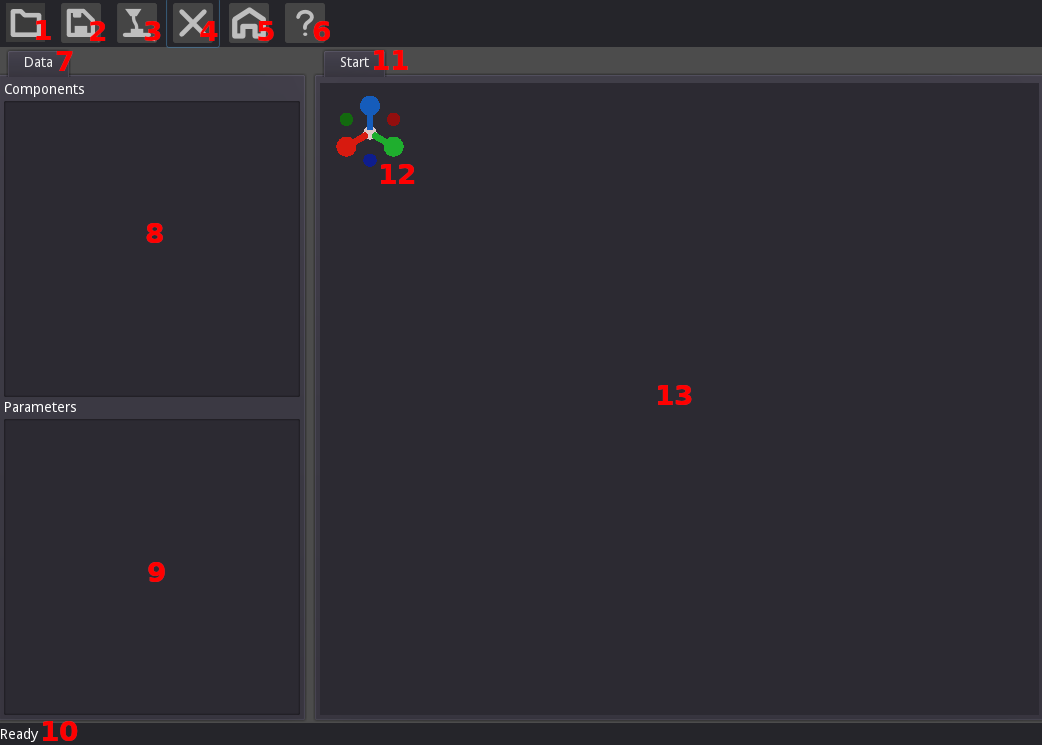
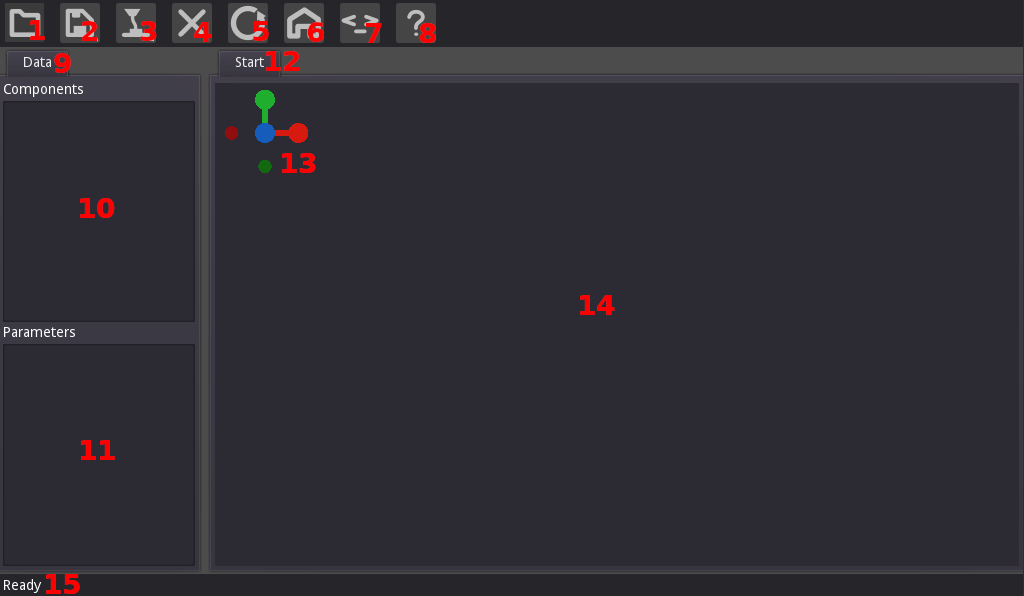
Updated docs other than the tutorial

diff --git a/docs/usage.md b/docs/usage.md
@@ -10,17 +10,19 @@ Below is a diagram showing the main sections of the user interface.
 
 1. _Open Button_ - Allows a user to open a Semblage component file, which is just a carefully structured CadQuery script. Semblage files are structured in a way that preserves the history, which is the order that operations were added in. Opening a non-Semblage CadQuery file may still work, but is not officially supported at this time, and no history will be loaded. It should be understood that Semblage is not a CadQuery IDE. There are other editors like [CQ-editor](https://github.com/CadQuery/CQ-editor) that can fill that role better than Semblage.
 2. _Save Button_ - Any button with a triangle in the bottom-right corner will open a submenu. The Save button gives two options: _Save_ and _Save As_. If a component has not been saved yet, clicking the _Save_ item will trigger a _Save As_, which allows the path and file name to be set for the component. After the file name has been set, clicking _Save_ will simply save the component to the existing file. The _Ctrl+S_ hotkey combination will trigger a save as well.
-3. _Export Button_ - Also referred to as the "Make Button", the icon for this button is a 3D printer hotend which is extruding plastic. Clicking this button will display a submenu with a listing of each format that the component can be exported to. Clicking on one of the items will open the export dialog for that format.
-4. _Close Button_ - Clicking this button closes the current component and clears the UI so that work on a new component can be started.
-5. _Home Button_ - Clicking this button with a component loaded into the 3D view will return the camera view to a standard "home" position. This gives a safe spot to come back to when rotating, panning, and zooming an object.
-6. _Information Button_ - This button opens an About dialog that contains acknowledgements, documentation links, and version information.
-7. Data - Sidebar that contains the list of _Components_ with the operation _History_ of the associated component, and any _Parameters_ that are associated with the current component. Parameters are global and are not scoped to any single component within the enclosing component script.
-8. _Components_ - List of current components. Each component will contain all of the operations that have been added to it as children in the tree. Multiple components can be added and used in combination to perform operations such as sweep. Right clicking on a component gives a menu that allows a user to _Add_, _Edit_, _Remove_ or _Show/Hide_ the component. Right clicking on an operation item shows a menu that allows a user to _Add_, _Edit_ and _Remove_ the operation, and there is also an item (_Insert Above_) that will allow an operation to be inserted above the operation that was right clicked on. Operation items can also be dragged and dropped onto one another to reorder the operations.
-9. _Parameters_ - Parameters are what make a model "parametric", and this control holds any parameters that are defined for the current component. These parameters are global to the component script, and are not scoped to an individual component within the script/file. Right clicking in the empty space will give the user the option to add a _New_ parameter, which will open the _Add/Edit Parameter_ dialog. Once a parameter has been added, right clicking on it will enable the user to _Edit_ or _Remove_ that parameter. Double clicking an entry in this list also allows that entry to be edited, although the name of a parameter cannot be changed once it has been created. To change the name, the parameter must be deleted and recreated. Parameters can be dragged and dropped on top of each other to reorder them.
-10. _Status Indicator_ - Used to keep the user updated on what the UI is doing. Examples are _Ready_ for when the interface is fully loaded and ready to use, _Rendering..._ for when a component is being recomputed and prepared for display, and _Component saved_ to indicate that a save operation completed.
-11. _Document Tab_ - Displays the path and name of the currently open component. Displays _Start_ when the UI first loads.
-12. _Rotation Indicator_ - Shows the X (red), Y (green) and Z (blue) axes and their orientation. This indicator mirrors the rotation applied to the 3D view. In the future the indicator ball for each axis will be labelled with its axis letter, and clicking on a ball will snap the 3D view to that orientation. This is very similar to the way this indicator works in Blender.
-13. _3D View_ - The 3D render of the component is displayed in this view. 2D geometry such as edges are also rendered into this 3D view. The [mouse controls](#mouse-controls) outlined below can be used to rotate, pan and zoom the 3D view.
+3. _Export Button_ - Also referred to as the _Make Button_, the icon for this button is a 3D printer hotend which is extruding plastic. Clicking this button will display a submenu with a listing of each format that the component can be exported to. Clicking on one of the items will open the export dialog for that format.
+4. _Close Button_ - Closes the current component and clears the UI so that work on a new component can be started.
+5. __Reload Button_ - Gives the user the option to manually reload the rendered view if the user interface does not do it automatically for some reason.
+6. _Home Button_ - Clicking this button with a component loaded into the 3D view will return the camera view to a standard "home" position. This gives a safe spot to come back to when rotating, panning, and zooming an object.
+7. _Show Code Button_ - This button shows the current underlying code that is being generated for the model. Useful for getting a feel for the CadQuery code that is being generated, and for copying it to a CadQuery editor such as CQ-editor for exploration and debugging purposes.
+8. _Information Button_ - This button opens an About dialog that contains acknowledgements, documentation links, and version information.
+9. Data - Sidebar that contains the list of _Components_ with the operation _History_ of the associated component, and any _Parameters_ that are associated with the current component. Parameters are global and are not scoped to any single component within the enclosing component script.
+10. _Components_ - List of current components. Each component will contain all of the operations that have been added to it as children in the tree. Multiple components can be added and used in combination to perform operations such as sweep. Right clicking on a component gives a menu that allows a user to _Add_, _Edit_, _Remove_ or _Show/Hide_ the component, or change the component's _Color/Alpha_. Right clicking on an operation item shows a menu that allows a user to _Add_, _Edit_ and _Remove_ the operation, and there is also an item (_Insert Above_) that will allow an operation to be inserted above the operation that was right clicked on. Operation items can also be dragged and dropped onto one another to reorder the operations.
+11. _Parameters_ - Parameters are what make a model "parametric", and this control holds any parameters that are defined for the current component. These parameters are global to the component script, and are not scoped to an individual component within the script/file. Right clicking in the empty space will give the user the option to add a _New_ parameter, which will open the _Add/Edit Parameter_ dialog. Once a parameter has been added, right clicking on it will enable the user to _Edit_ or _Remove_ that parameter. Double clicking an entry in this list also allows that entry to be edited, although the name of a parameter cannot be changed once it has been created. To change the name, the parameter must be deleted and recreated. Parameters can be dragged and dropped on top of each other to reorder them.
+12. _Document Tab_ - Displays the path and name of the currently open component. Displays _Start_ when the UI first loads.
+13. _Rotation Indicator_ - Shows the X (red), Y (green) and Z (blue) axes and their orientation. This indicator mirrors the rotation applied to the 3D view. In the future the indicator ball for each axis will be labelled with its axis letter, and clicking on a ball will snap the 3D view to that orientation. This is very similar to the way this indicator works in Blender.
+14. _3D View_ - The 3D render of the component is displayed in this view. 2D geometry such as edges are also rendered into this 3D view. The [mouse controls](#mouse-controls) outlined below can be used to rotate, pan and zoom the 3D view.
+15. _Status Indicator_ - Used to keep the user updated on what the UI is doing. Examples are _Ready_ for when the interface is fully loaded and ready to use, _Rendering..._ for when a component is being recomputed and prepared for display, and _Component saved_ to indicate that a save operation completed.
 
 ## Add/Edit Parameter Dialog
 
@@ -41,7 +43,7 @@ Once the parameter information has been entered, clicking the _OK_ button will a
 
 ## Operations Dialog
 
-Right clicking anywhere on the 3D view will display the _Operations_ dialog. This dialog can also be displayed by right clicking on the Components tree and then clicking the _Add_ button. This is where the majority of the work of creating a component is done. Displaying the dialog on a right click within the 3D view gives fast access to component creation operations, and prepares the user for when features such as vertices, edges, faces can be selected and used in an operation. There are four group buttons at the top of the dialog, which select groups of operations that this dialog can operate with. The diagram below highlights each button and which group of operations it selects.
+Right clicking anywhere on the 3D view will display the _Operations_ dialog. This dialog can also be displayed by right clicking on the Components tree and then clicking the _Add_ button. This is where the majority of the work of creating a component is done. Displaying the dialog on a right click within the 3D view gives fast access to component creation operations, and prepares the user for selecting features such as vertices, edges and faces to be used in an operation. There are four group buttons at the top of the dialog, which select groups of operations that this dialog can operate with. The diagram below highlights each button and which group of operations it selects.
 
 ![Operations Dialog Group Buttons](_static/Operations_Dialog_Group_Buttons.png)
 

diff --git a/docs/introduction.md b/docs/introduction.md
@@ -23,24 +23,23 @@ The high-level goals of Semblage are as follows.
 
 ## Terms
 
-* ***Component*** - General term for geometry that can be a 2D sketch, a face, a solid, or (eventually) an assembly. Components to be used in combination as in the case of a sweep operation, or nested within each other to build assemblies (eventually).
+* ***Component*** - General term for geometry that can be a 2D sketch, a face, a solid, or (eventually) an assembly. Components can be used in combination as in the case of a sweep operation, or nested within each other to build assemblies (eventually).
 * ***CadQuery*** - A Python based CAD scripting API that is at the heart of Semblage. [CadQuery](https://cadquery.readthedocs.io/en/latest/index.html) is good at capturing design intent with features like selectors, and is capable of creating very powerful, highly parametric design scripts.
 * ***Script*** - A collection of statements that are executed when needed, rather than compiled into a binary program. Semblage uses the CadQuery CAD scripting API to generate models. Each Semblage component is simply a CadQuery Python script. This has multiple advantages, including making it easier to track CAD models within a code versioning system like git. It can bring security challenges with it as well, which is why Semblage will prompt you with a warning if the component script you are opening imports anything more than the standard CadQuery packages.
 * ***CodeCAD*** - Interchangeable with the phrase _programmatic CAD_, which describes CAD objects that are specified by a script rather than by mouse interaction.
 
 ## What To Expect
 
-Semblage is in alpha at this time, so core features may be missing or broken. Use at your own risk and remember to save often. There is a Ctrl+S keyboard shortcut for save to make it easier to save your work frequently. Also, back up your component files at critical points in the design process.
+Semblage is in alpha at this time, so core features may be missing or broken. Use at your own risk and remember to save often. There is a Ctrl+S keyboard shortcut for _Save_ to make it easier to save your work frequently. Also, back up your component files at critical points in the design process.
 
 The operations available in Semblage are annotated with documentation within the UI, and have been derived from their CadQuery counterparts. The [CadQuery documentation](https://cadquery.readthedocs.io/en/latest/) can be useful for finding more detail on Semblage operations. Understanding CadQuery will open additional design possibilities by helping to tap into the scripting power at the core of Semblage.
 
 Here is a list of currently missing features that users may find limiting or confusing. Each item in this list can be read with a "not yet" added to it. The goal is to implement all of these missing features over time.
 
-* Features of the model (edges, vertices, faces) cannot be selected yet.
-* Selector definition is not mouse-driven at this time. Selectors must be created manually. Adding mouse interaction to infer selectors will be the focus of a future release.
+* Not all features of a model (some edges and vertices) can be selected yet with the mouse. This means that selectors for edge and vertex selection must be created manually. Improving mouse interaction to infer selectors will be the focus of future releases.
 * 2D sketching with preview is partially working, but is not mouse driven at this time.
 * 2D sketching does not include constraints.
 * 3D assembly is not available yet.
-* Some export formats (notably AMF) are not available yet.
+* Some export formats (notably 3MF and AMF) are not available yet.
 
 A good next step from here is to continue to the [Installation](installation.md) documentation.

diff --git a/docs/index.md b/docs/index.md
@@ -1,6 +1,6 @@
 # Semblage Documentation
 
-Welcome to the documentation for Semblage, a community-based, open source 3D CAD application that seeks to blend the mouse-driven and programmatic CAD worlds.
+Welcome to the documentation for Semblage, an open source 3D CAD application that seeks to blend the mouse-driven and programmatic CAD worlds.
 
 ![Semblage screenshot](_static/Semblage_Pre_Alpha_Screenshot_03_Full.png)
 
@@ -44,4 +44,5 @@ This documentation is organized into the following sections:
     * [Sponsoring](community.md#sponsoring)
     * [Code of Conduct](community.md#code-of-conduct)
 * [Developers](developer_setup.md)
+    * [Codebase Tour](codebase_tour.md)
 * [Roadmap](roadmap.md)

diff --git a/docs/community.md b/docs/community.md
@@ -5,6 +5,7 @@ This page is dedicated to resources for the community that will form around Semb
 ## Communication Channels
 
 * [Groups.io](https://groups.io/g/semblage) - Traditional mailing list. Messages from new users must be approved twice before your messages will come through automatically.
+* [Discourse](https://discourse.7bindustries.com/) - Forum that exists for all 7B Industries projects, but that has sections for [Semblage Users](https://discourse.7bindustries.com/c/semblage-users/10) and [Semblage Developers](https://discourse.7bindustries.com/c/semblage-developers/9).
 
 ## Contributing
 
